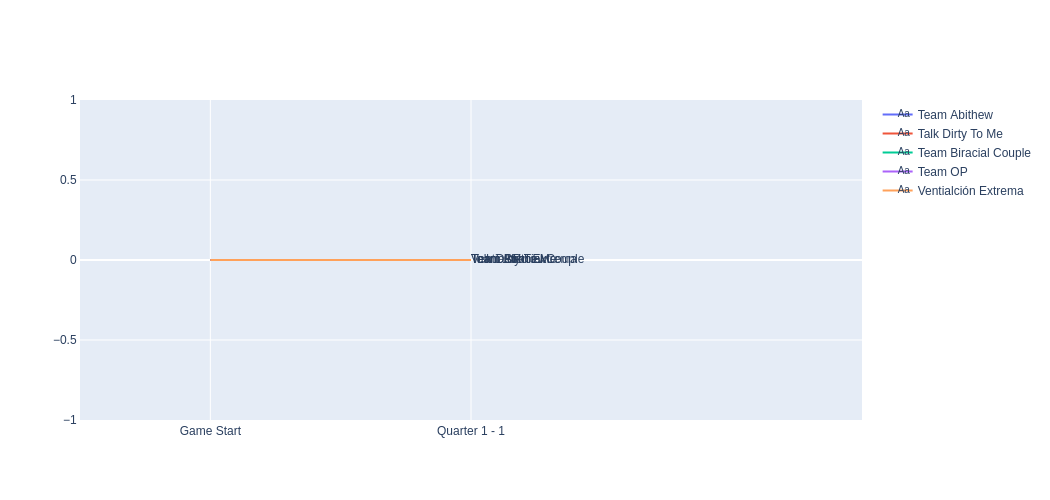
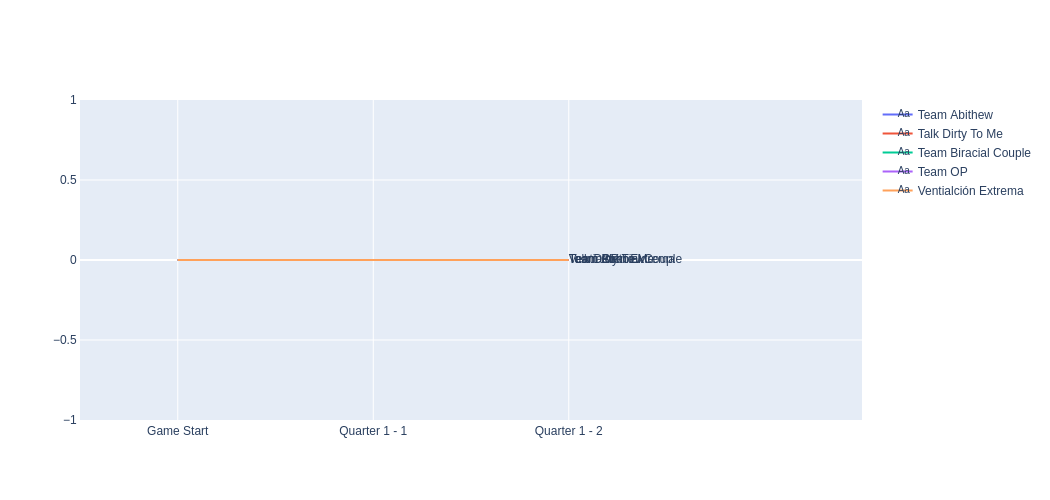
Live Edits

diff --git a/Trivia/Live_Tracker.html b/Trivia/Live_Tracker.html
@@ -13,7 +13,7 @@
         document.getElementById("title").innerHTML = "Trivia Live Scoring - " + m + "/" + d + "/" + y;
         </script>
         <div><img src = "img/fig1.png"></div>
-        <div>1 person (20%) got question 1-1 correct.</div>
+        <div>0 people (0%) got question 1-2 correct.</div>
         
         </body>
         </html>
